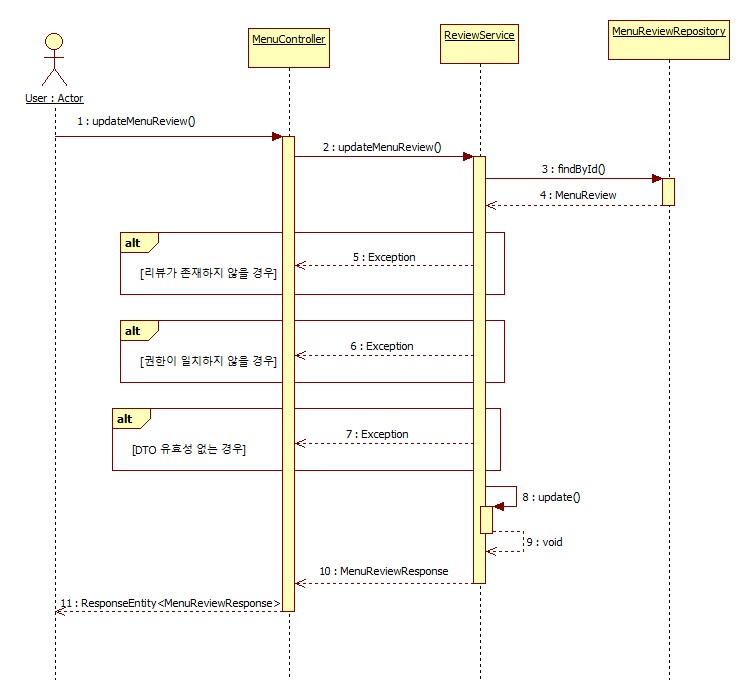
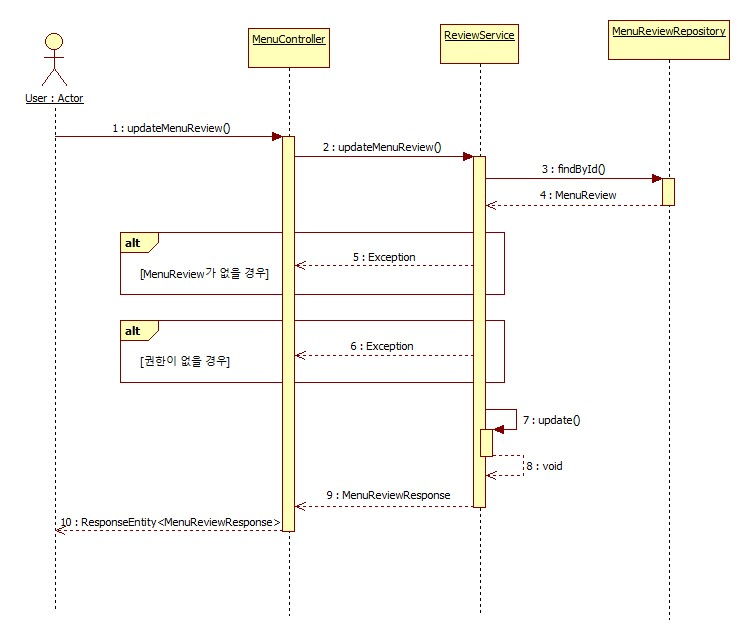
메뉴 리뷰수정 기능 내용 수정

diff --git a/SDS/SDS_breadcast_4.Sequence diagram.md b/SDS/SDS_breadcast_4.Sequence diagram.md
@@ -150,12 +150,12 @@
 ![17_MenuReviewUpdate](https://github.com/seohyun27/breadcast-docs/blob/main/SDS/images/sequence/17-Menu-Review-Update.jpg?raw=true)
 
 - 사용자가 가게 메뉴 리뷰를 수정할 수 있게 해주는 Use Case를 sequence diagram으로 나타낸 것이다..
-- 요청을 받은 MenuController는 reviewId, UserDetailsImpl, UpdateMenuReviewRequest DTO를 가지고 updateMenuReview() 메소드를 실행하여 ReviewService를 호출한다.
+- 요청을 받은 MenuController는 reviewId, 사용자 정보, DTO를 가지고 updateMenuReview() 메소드를 실행하여 ReviewService를 호출한다.
 - ReviewService는 updateMenuReview() 메소드를 실행한다.
 - 이 메소드는 먼저 menuReviewRepository.findById()를 호출해서 수정할 리뷰 엔티티를 데이터베이스에서 찾아낸다.
 - 만약 해당 리뷰 ID가 존재하지 않으면 적절한 예외를 발생시켜 처리를 중단한다.
 - 리뷰 엔티티를 찾은 뒤, ReviewService는 수정 권한을 검증한다.
-- 수정 권한 일치하지 않으면 예외를 발생시켜 처리한다.
+- 수정 권한이 없으면 예외를 발생시켜 처리한다.
 - UpdateMenuReviewRequest의 유효성도 검증한다.
 - 검증이 완료되면, 조회된 리뷰 엔티티에 MenuReview.update() 메소드를 호출하여 DTO의 새로운 내용(별점, 내용)을 반영한다.
 - 수정이 완료된 후, ReviewService는 수정된 MenuReview 엔티티 정보를 MenuReviewResponse DTO로 변환시키며, 이 DTO를 MenuController에게 전달한다.
